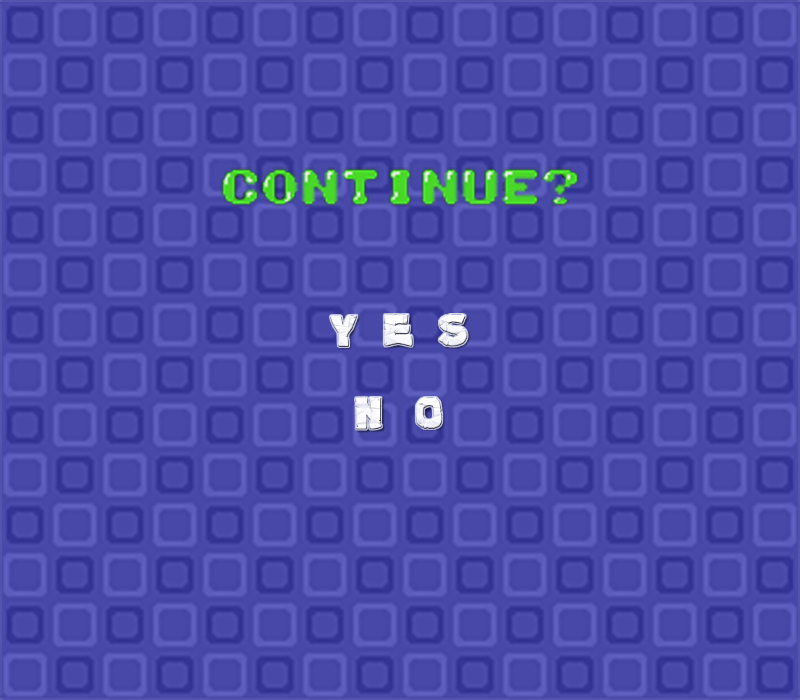
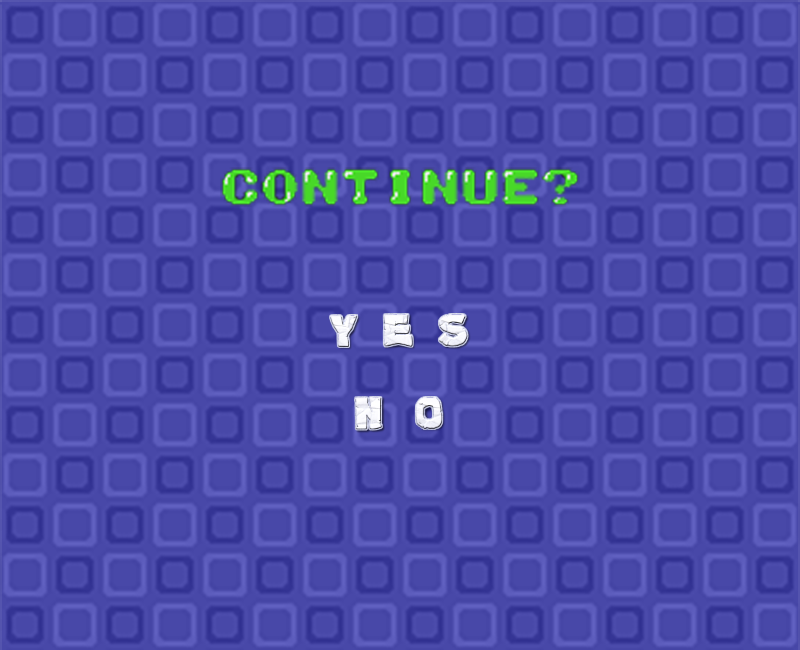
이미지 크기 수정

diff --git a/Project/Source/pausepage.py b/Project/Source/pausepage.py
@@ -16,13 +16,13 @@ class PausePage:
 
     def load(self):
         self.mBKImage = self.mGame.imageLoader.load(self.mGame.imageDir + 'pause.png')
-        self.mSelecter = selecter.Selecter(self.mGame, 1, 375)
+        self.mSelecter = selecter.Selecter(self.mGame, 1, 325)
 
     def update(self):
         pass
 
     def draw(self):
-        self.mBKImage.draw(400, 350)
+        self.mBKImage.draw(gameframework.canvasWidth / 2, gameframework.canvasHeight / 2)
         self.mSelecter.draw()
 
     def processInput(self, key):

diff --git a/Project/Source/logopage.py b/Project/Source/logopage.py
@@ -22,7 +22,7 @@ class LogoPage:
             self.mGame.changePage(titlepage.TitlePage(self.mGame))
 
     def draw(self):
-        self.image.draw(400, 350)
+        self.image.draw(gameframework.canvasWidth / 2, gameframework.canvasHeight / 2)
 
     def processInput(self, key):
         if key.type == SDL_QUIT:

diff --git a/Project/Source/gameframework.py b/Project/Source/gameframework.py
@@ -4,7 +4,7 @@ import imageloader
 import gamepage
 
 canvasWidth = 800
-canvasHeight = 700
+canvasHeight = 650
 
 class Game:
     def __init__(self):
